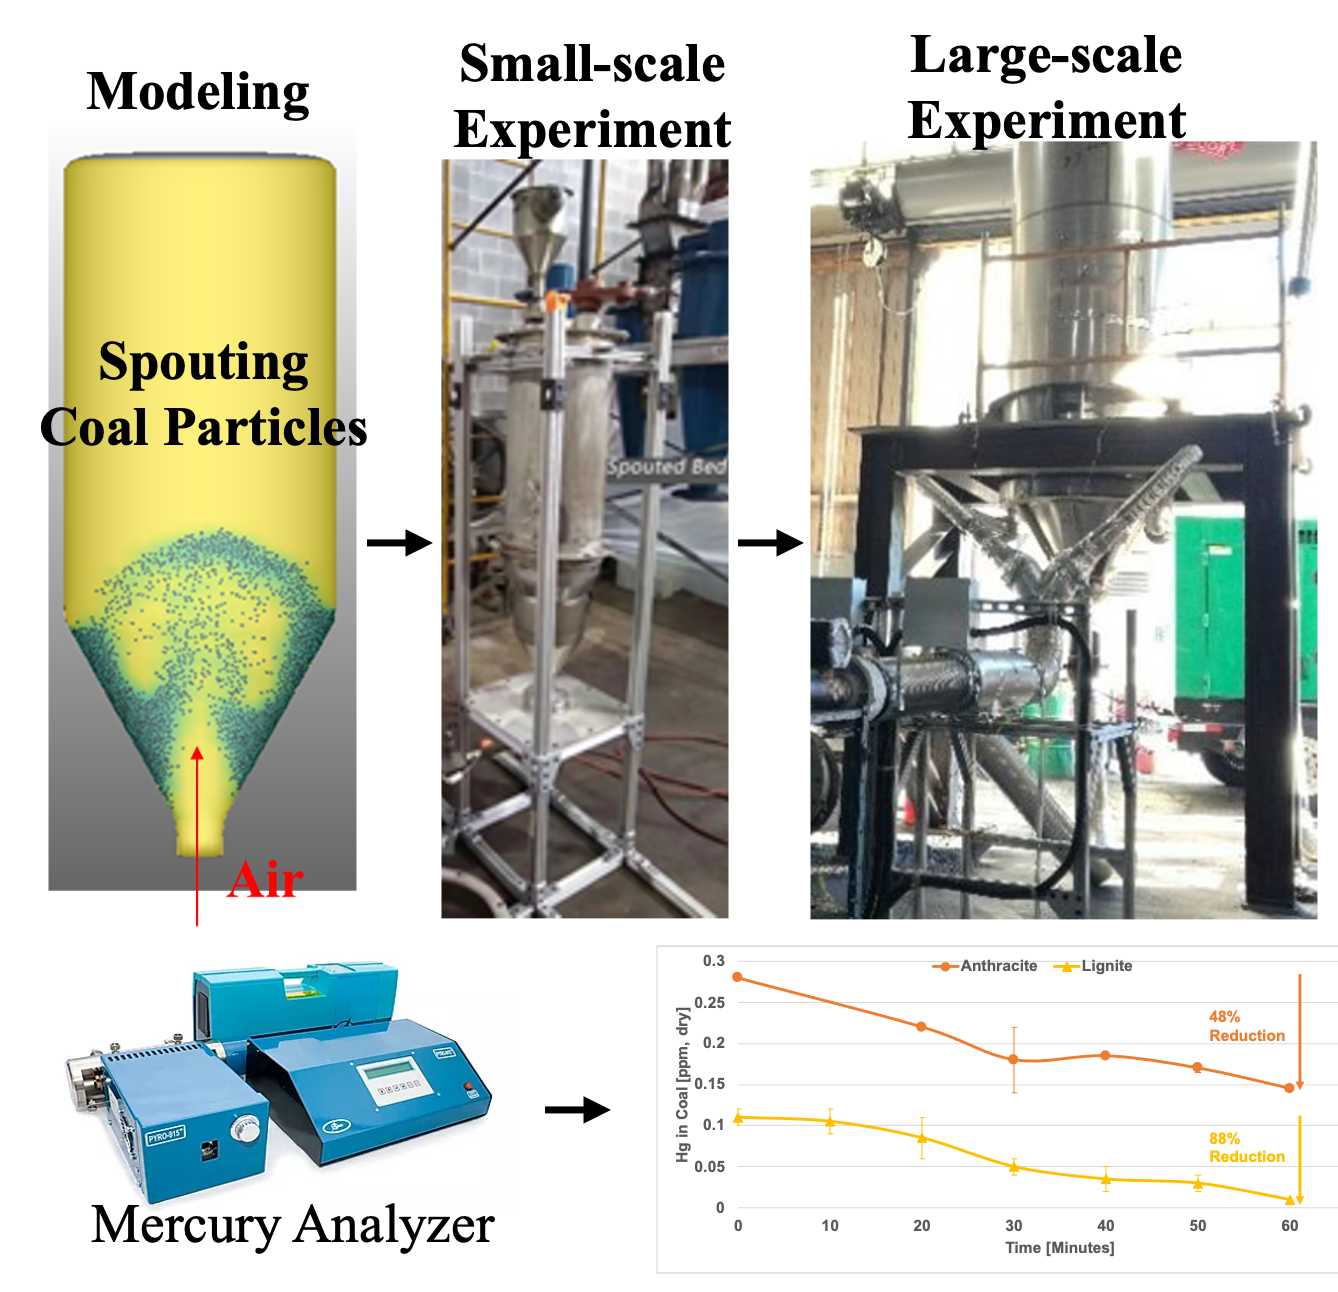
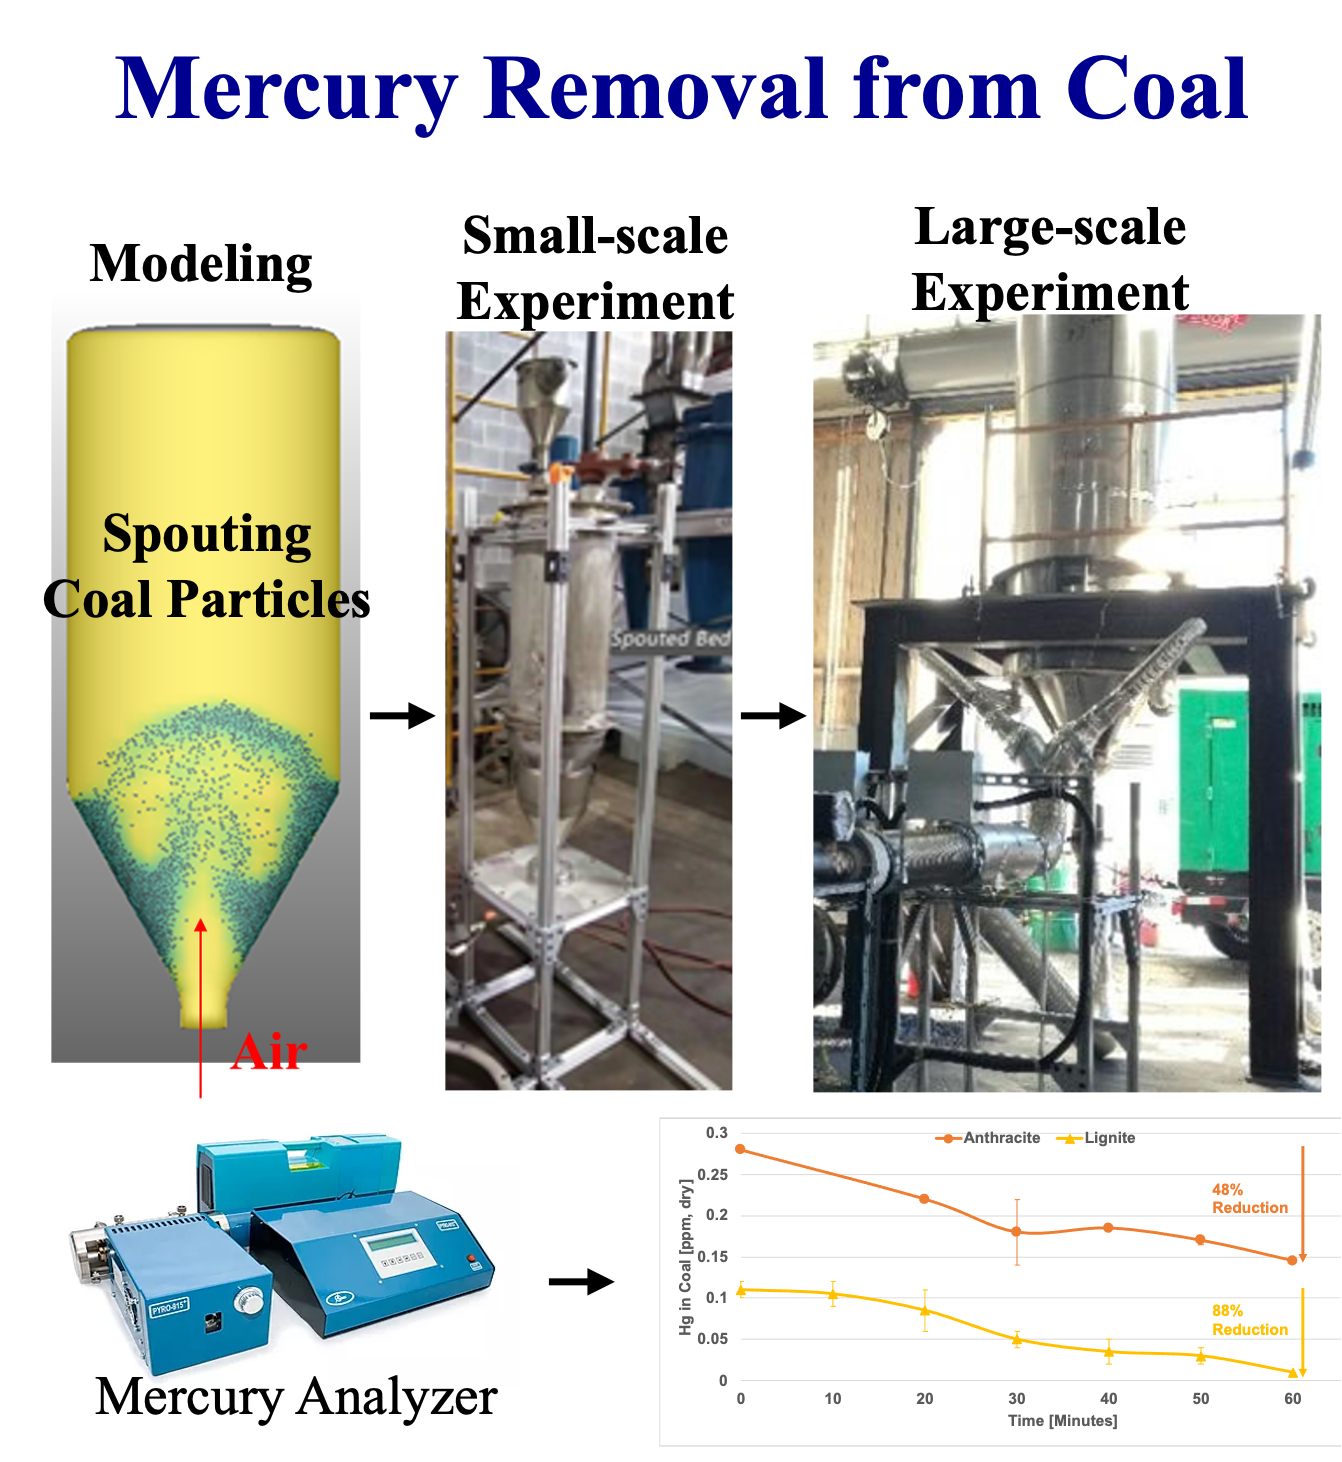
Replace first solid-gas multiphase flow figure with updated spouted bed image

diff --git a/research.html b/research.html
@@ -117,7 +117,7 @@
       <div class="research-carousel" role="region" aria-roledescription="carousel" aria-label="Solid-Gas Multiphase Flow figures" tabindex="0">
         <div class="research-carousel__track" id="solar-calcination-figures">
           <figure class="research-figure">
-            <a href="assets/img/research/spoutedBed.png" target="_blank" rel="noopener" aria-label="Open figure: Spouted-bed coal processing apparatus and mercury removal measurements"><img src="assets/img/research/spoutedBed.png" alt="Spouted-bed particle circulation, experimental reactors, mercury analyzer, and mercury reduction in coal" width="1338" height="1292" loading="lazy" decoding="async"></a>
+            <a href="assets/img/research/spoutedBed.png?v=20261009" target="_blank" rel="noopener" aria-label="Open figure: Spouted-bed coal processing apparatus and mercury removal measurements"><img src="assets/img/research/spoutedBed.png?v=20261009" alt="Spouted-bed particle circulation, experimental reactors, mercury analyzer, and mercury reduction in coal" width="1342" height="1462" loading="lazy" decoding="async"></a>
           </figure>
           <figure class="research-figure">
             <a href="assets/img/research/pre-calciner.png" target="_blank" rel="noopener" aria-label="Open figure: Steam-enhanced pre-calcination reactor simulations and prototype"><img src="assets/img/research/pre-calciner.png" alt="Particle-flow simulations and a prototype steam-enhanced pre-calcination reactor for cement production" width="1920" height="1659" loading="lazy" decoding="async"></a>
